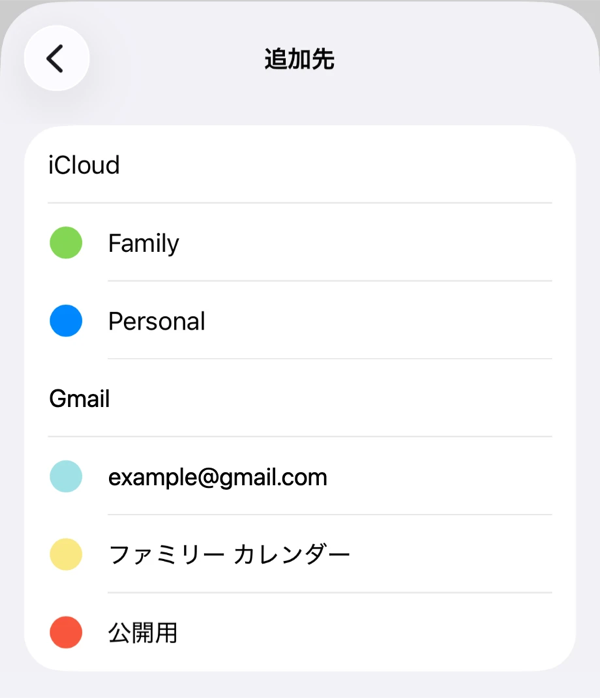
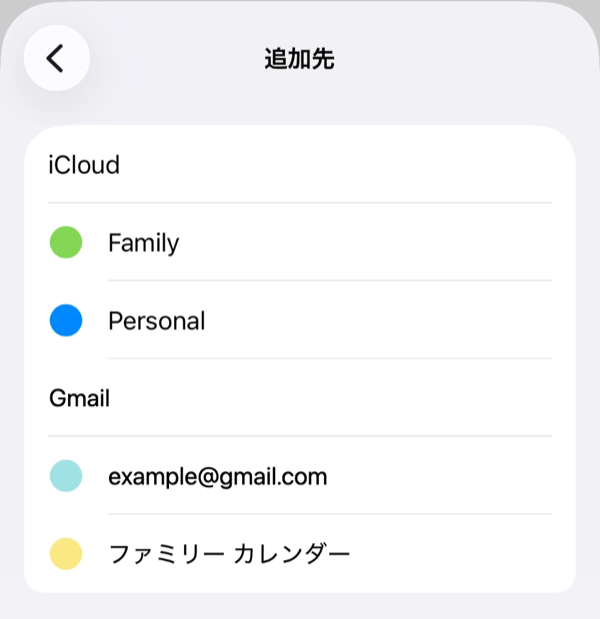
Leave a calendar of the person's own out of the 追加先 picture

diff --git a/apps/web/src/routes/support_.google-calendar.tsx b/apps/web/src/routes/support_.google-calendar.tsx
@@ -80,7 +80,7 @@ function GoogleCalendarGuide() {
             <figure>
               <img
                 alt="ポチカルの追加先の画面。iCloudの下と、Gmailの下にカレンダーが並ぶ。"
-                height={698}
+                height={619}
                 src="/support/calendar-picker.png"
                 width={600}
               />
